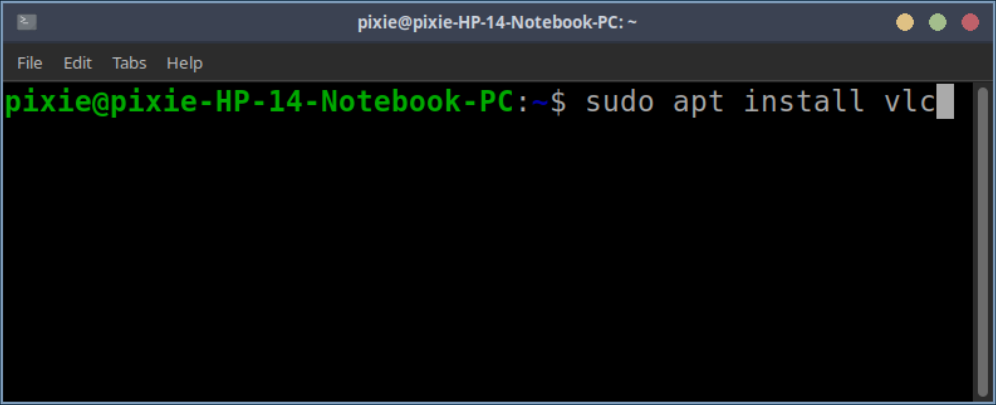
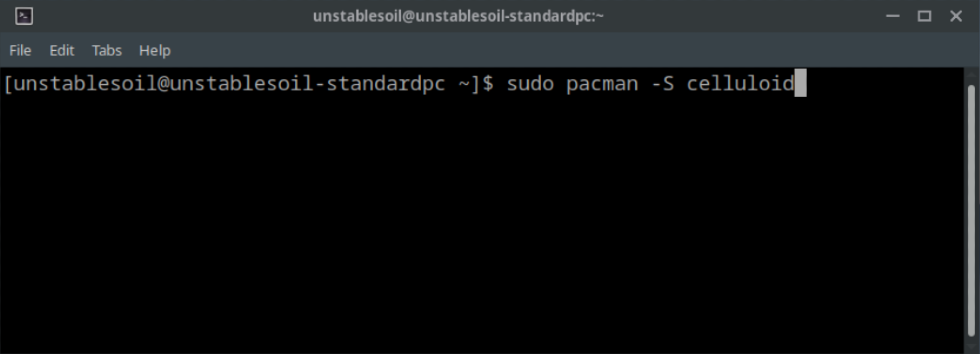
update tutorial app for NEXT

Changed region(s): [[0.0, 0.0, 1.0, 1.0]]

diff --git a/Sources/airootfs/usr/fancy-stuff/olinux-tutorial/olinuxhome.py b/Sources/airootfs/usr/fancy-stuff/olinux-tutorial/olinuxhome.py
@@ -26,8 +26,8 @@ class TourApp(Gtk.Window):
                 {"image": "/usr/fancy-stuff/olinux-tutorial/olinuxlogo.png", "text": "Bienvenido a OmegaLinux\nAquí verás lo básico para comenzar con tu sistema."},
                 {"image": "/usr/fancy-stuff/olinux-tutorial/2.png", "text": "Añadir aplicaciones al panel:\nHaz clic derecho sobre las apps y elige 'Ajustes de Lanzador de Aplicaciones y barra de tareas', luego selecciona la app que quieras y haz clic en Añadir."},
                 {"image": "/usr/fancy-stuff/olinux-tutorial/3.png", "text": "Cambiar temas de apariencia:\nAbre LXAppearance desde el menú y elige tus temas, iconos, cursores, etc. Los temas van en /home/usuario/.themes, y los iconos o cursores en .icons."},
-                {"image": "/usr/fancy-stuff/olinux-tutorial/4.png", "text": "Instalar apps desde la terminal:\nUsa 'sudo apt install nombre-del-paquete', por ejemplo:\nsudo apt install vlc\nsudo apt install firefox\nsudo apt install software-properties-gtk"},
-                {"image": "/usr/fancy-stuff/olinux-tutorial/5.png", "text": "Comandos básicos:\nls para listar archivos y carpetas\ncd para cambiar entre carpetas\nrm para eliminar archivos, etc"}
+                {"image": "/usr/fancy-stuff/olinux-tutorial/4.png", "text": "Instalar apps desde la terminal:\nUsa 'sudo pacman -S nombre-del-paquete', por ejemplo:\nsudo pacman -S vlc\nsudo pacman -S firefox\nsudo pacman -S  celluloid"},
+                {"image": "/usr/fancy-stuff/olinux-tutorial/5.png", "text": "Comandos básicos:\nls para listar archivos y carpetas\ncd para cambiar entre carpetas\nrm para eliminar archivos\ntouch para crear archivos vacios\nsudo para correr comandos como administrador\nnano para crear y editar archivos, etc"}
             ]
             self.label_next = "Siguiente"
             self.label_exit = "Listo"
@@ -36,8 +36,8 @@ class TourApp(Gtk.Window):
                 {"image": "/usr/fancy-stuff/olinux-tutorial/olinuxlogo.png", "text": "Welcome to OmegaLinux\nHere you’ll learn the basics to get started."},
                 {"image": "/usr/fancy-stuff/olinux-tutorial/2.png", "text": "Add applications to the panel:\nRight-click the apps and select 'Application Launch and Task Bar Settings', then choose the app and click Add."},
                 {"image": "/usr/fancy-stuff/olinux-tutorial/3.png", "text": "Change appearance themes:\nOpen LXAppearance from the menu and select your themes, icons, cursors, etc. Themes go in ~/.themes and icons/cursors in ~/.icons."},
-                {"image": "/usr/fancy-stuff/olinux-tutorial/4.png", "text": "Install apps in the terminal:\nUse 'sudo apt install package-name', for example:\nsudo apt install vlc\nsudo apt install firefox\nsudo apt install software-properties-gtk"},
-                {"image": "/usr/fancy-stuff/olinux-tutorial/5.png", "text": "Basic commands:\nls to list files and folders\ncd to change folders\nrm to delete files, etc"}
+                {"image": "/usr/fancy-stuff/olinux-tutorial/4.png", "text": "Install apps in the terminal:\nUse 'sudo pacman -S package-name', for example:\nsudo pacman -S vlc\nsudo pacman -S firefox\nsudo pacman -S celluloid"},
+                {"image": "/usr/fancy-stuff/olinux-tutorial/5.png", "text": "Basic commands:\nls to list files and folders\ncd to change folders\nrm to delete files\ntouch to create empty files\nsudo to run commands as superuser\nnano to create and edit files, etc"}
             ]
             self.label_next = "Next"
             self.label_exit = "Exit"
